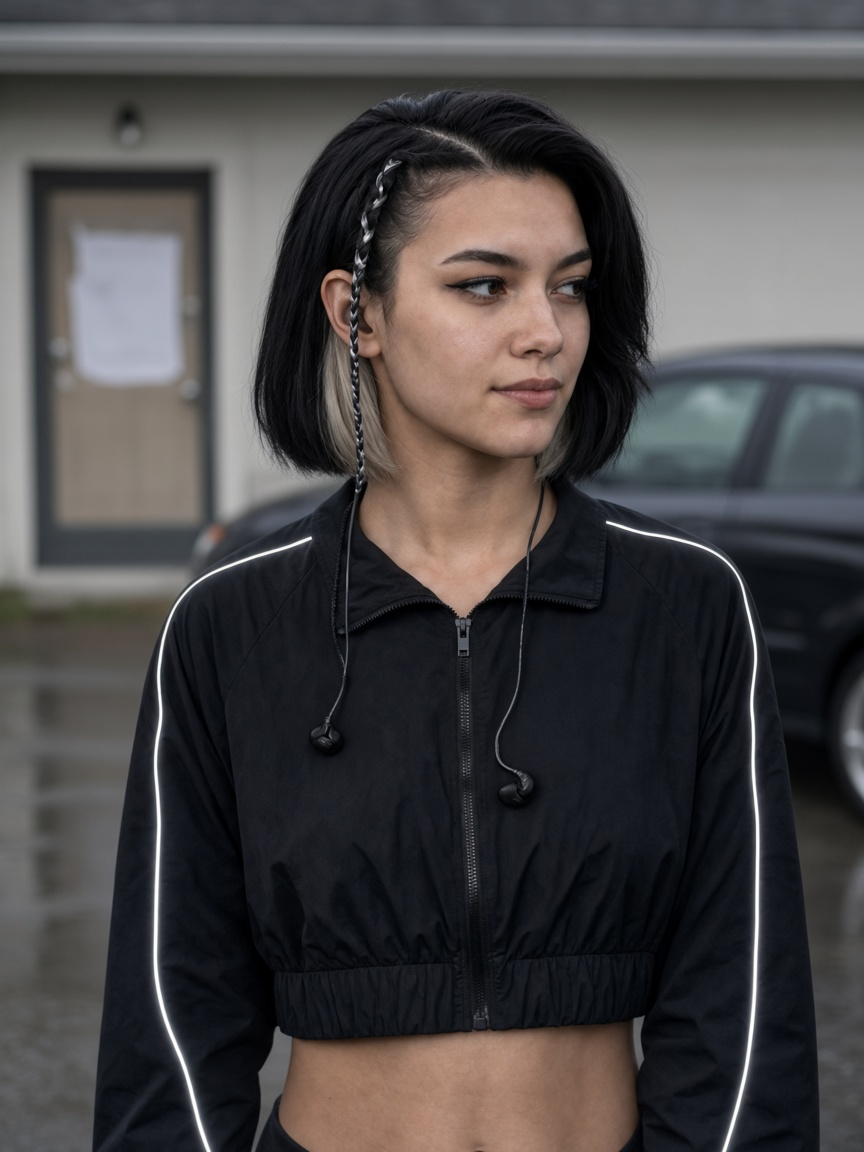
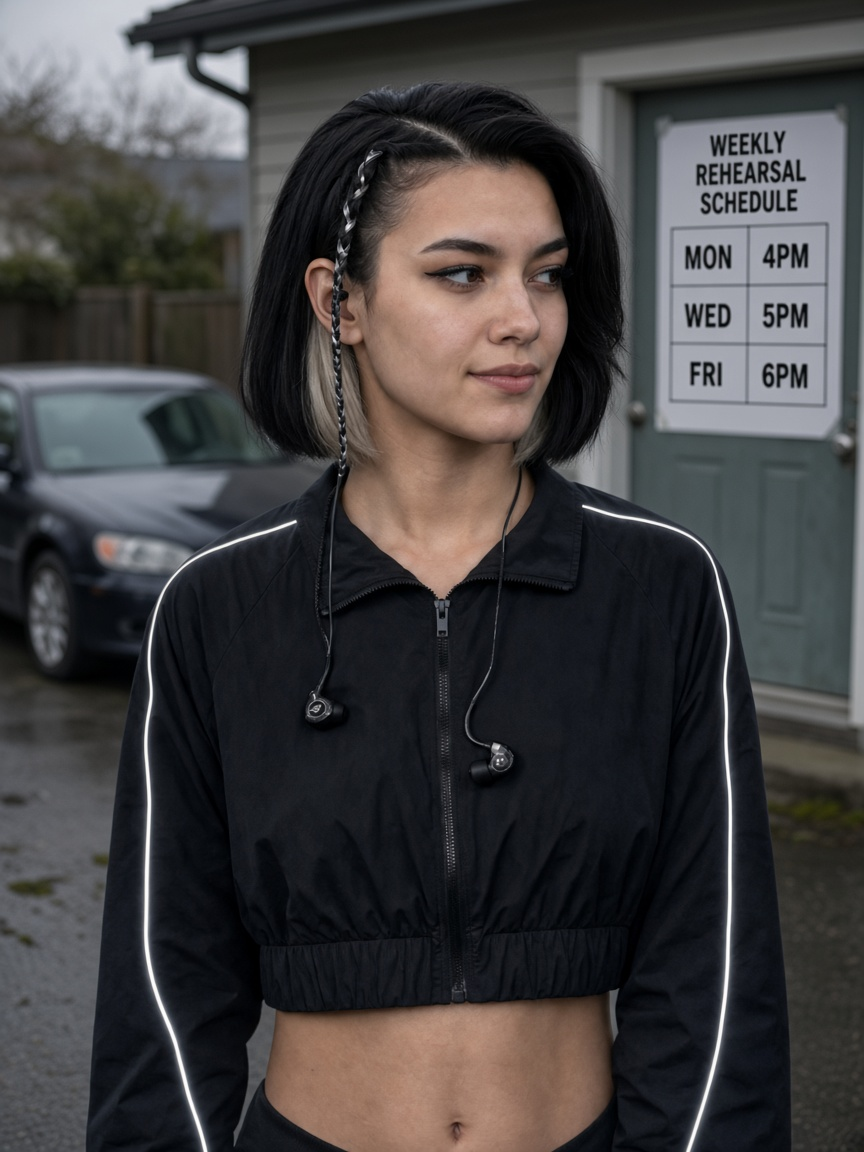
Seed IV-010 take 18 as the live still.
Claude muted-read PASS (a8a5ebe4) on PR #136 preferred take-18.
Promote take-18 onto cards/IV-010.png byte-identical. Take-13 FAIL
stays in the wave notes. Bump imageUrl to a69. No regen. No IV-018.

diff --git a/src/game.js b/src/game.js
@@ -219,7 +219,7 @@ function sceneFragment(scene) {
 }
 
 function imageUrl(cardId) {
-  return "/api/run/image/" + encodeURIComponent(cardId) + "?v=a68";
+  return "/api/run/image/" + encodeURIComponent(cardId) + "?v=a69";
 }
 
 function cargoUsed(state) {

diff --git a/cards/takes/WAVE_IV-010.md b/cards/takes/WAVE_IV-010.md
@@ -1,18 +1,18 @@
 # NEXT STILLS — IV-010 portrait regen (takes 12–19)
 
-Not seeded. No live Postgres. No `imageUrl` bump. No plate overwrite. No IV-018. No IV-029. No Act V.
+**Seeded.** Claude muted-read PASS on PR #136 take-18 (primary chat a8a5ebe4). Live plate is byte-identical to `cards/takes/IV-010-take-18.png`. Take-13 FAIL (garbled/placeholder schedule + crop) — not seeded. `imageUrl` bumped `?v=a69`. No plate overwrite. No IV-018. No IV-029. No Act V.
 
 Card JSON is sole brief authority. Plates attached: `refs/ref_yuna.png` (Y2 take 1) + `refs/ref_yuna_sheet.png` (Y1 take 6). PR #134 re-verify **PLATES OK keep** — plates not regenerated.
 
[2 lines of base64/hex data omitted]
 
 Every take send: **card_id** + **lesson** + **shot token**.
 
-| Card | Lesson | Shot | Closest | Runner-up |
+| Card | Lesson | Shot | Seeded (Claude PASS) | Runner-up (FAIL) |
 |---|---|---|---|---|
 | **IV-010** | both in-ears are out; the taped schedule is on the door behind her | `POV_PORTRAIT` | `cards/takes/IV-010-take-18.png` | `cards/takes/IV-010-take-13.png` |
 
-Live still stays take-7 until Claude muted-read PASSes a new take. Do not promote without Claude.
+`variation.winner` / art-review pick lock take-18. Take-7 superseded.
 
 ---
 
@@ -45,21 +45,21 @@ This is the check that failed 11 / 9.
 | Cropped black windbreaker + reflective piping | yes | yes |
 | Dead in-ears | plates: right in / left dangling · take-7: both out | split — see takes |
 
-Costume checklist is not a face lock. Face lock held this wave. IEM state and door lettering are the residuals.
+Costume checklist is not a face lock. Face lock held this wave.
 
 ---
 
-## Closest — take 18
+## Seeded — take 18 (Claude PASS)
 
-KEEP vs the brief + plates + take-7: (1) **same face** as Y2 / take-7. (2) **Both ears empty.** Both buds dangling on the cord. (3) House door with a taped schedule sheet behind her. (4) Dark hatchback flank left of frame, no chevron. (5) Braid at her right temple, platinum under-layer, cropped piped windbreaker. (6) Faintly amused, chin level.
+KEEP vs the brief + plates + take-7: (1) **same face** as Y2 / take-7. (2) **Both ears empty.** Both buds dangling on the cord. (3) House door with a taped schedule sheet behind her — Claude: door schedule resolved/coherent. (4) Dark hatchback flank left of frame, no chevron. (5) Braid at her right temple, platinum under-layer, cropped piped windbreaker. (6) Colder flatter world grade. Identity matches Yuna plates.
 
-Residual: the door sheet is a printed grid with garbled title-card letters (`WEEKLYLY REHEARSAL SCHEDDELLE` / `MONNESTION`). Same text/UI class that discarded PR #130 take 10. Readable as a taped schedule at 390px; letters are invented. Expression stiller than “not still.”
+Claude muted-read preferred take-18. Live still: `cards/IV-010.png` (`cmp` identical to take 18). `variation.winner` = `take-18`.
 
-## Runner-up — take 13
+## Runner-up — take 13 (Claude FAIL)
 
 Same face lock. **Both ears empty.** Both buds on the cord. Hatchback flank clearer than 18. Taped schedule on the door. Braid side / platinum / jacket hold.
 
-Residual: same lettered garbled poster. Door reads more garage-blank than a house door. Slightly broader smile than “faintly amused.”
+Claude: garbled/placeholder schedule + crop. Do not seed.
 
 ## Same-family
 
@@ -77,14 +77,13 @@ Y2 lock bleed (right IEM in the ear) — same miss as PR #130 take 8 / 10:
 
 ---
 
-## Wave residuals (for Claude)
+## Live plate (this seed)
 
-1. **Text / UI on the door** — all eight printed a readable schedule and invented letters. Take-7’s blank taped sheet is cleaner against the negative block; this wave is more obviously a schedule. Claude should decide whether garbled title-card type fails the muted read.
-2. **Y2 one-in bleed** — 12 / 15 / 17 / 19. Do not promote.
-3. **Hatchback missing** — 12 / 14.
-4. Live `cards/IV-010.png` = take-7 **STANDS**. Do not seed. Do not bump `imageUrl`.
+| File | Bytes | MD5 | SHA256 | Size |
+|---|---|---|---|---|
[1 lines of base64/hex data omitted]
 
----
+Take-7 (`64cd6a28…`) superseded. Take-13 stays in the takes pool — FAIL, do not promote.
 
 ## Out of scope (untouched)
 
@@ -92,4 +91,4 @@ Y2 lock bleed (right IEM in the ear) — same miss as PR #130 take 8 / 10:
 - IV-018 (seeded take 1)
 - IV-029 (take-16 PASS)
 - Act V
-- Live Postgres
+- No art regen

diff --git a/refs/LOCKS.md b/refs/LOCKS.md
@@ -12,7 +12,8 @@ Never mix panels across takes. Winners only.
 | Deac turnaround | D1 take 2 | `ref_deac_sheet.png` | Glasses on cord in all three panels; vest taped at the shoulder. |
 | Deac portrait | D2 take 2 | `ref_deac.png` | Clipboard is the PSDP log; glasses on chest; amber vest only saturated color. |
 | Yuna turnaround | Y1 take 6 | `ref_yuna_sheet.png` | First four takes put the braid on her left. Take 6: braid at her right temple, right IEM in, left dangling, platinum under-layer. |
-| Yuna portrait | Y2 take 1 | `ref_yuna.png` | Right IEM in, left dangling; retroreflective piping flares; matches take-6 sheet. |
+| Yuna portrait | Y2 take 1 | `ref_yuna.png` | Right IEM in, left dangling; retroreflective piping flares; matches take-6 sheet. Plate IEM state stays one-in. |
+| IV-010 card art | take 18 | `../cards/IV-010.png` | Claude muted-read **PASS** (a8a5ebe4) on PR #136 take 18. Both IEMs out; taped schedule on the door; identity matches Yuna plates. Exact promote of `cards/takes/IV-010-take-18.png`. Take-13 FAIL — garbled/placeholder schedule + crop. Old take-7 live still superseded. Do not bleed Y2 one-in onto this card. |
 | Ledger four-view | D3 take 2 | `ref_ledger_sheet.png` | Oversize convex mirrors are the silhouette; amber destination sign with no readable text. |
 | Encore four-view | Y3 take 3 | `ref_encore_sheet.png` | Wedge + four roof horns + chevrons; no mesh. All four takes stripped the glass — bible wants glass with no mesh. Silhouette still reads. Rerun before cockpit lock if glass matters. |
 | Convoy silhouette | G1 take 2 | `ref_convoy.png` | Round / box / wedge reads at a glance. Only take that kept Encore's PA horns; 1, 3, 4 turned them into spotlights. Overcast PNW, no salt-flat bleed. |

diff --git a/PLAYTHROUGH.md b/PLAYTHROUGH.md
@@ -28,7 +28,7 @@ Play order is `seq`. Gaps are unsown, not broken.
 | IV-007 | Transit Only | rule | take 30 · #119 |
 | IV-008 | The Bike in the Gap | scene | take 1 · #36 |
 | IV-009 | When Loud Is Right | convoy | take 11 · #129 |
-| IV-010 | Eleven Months | dossier | early PASS · #25 |
+| IV-010 | Eleven Months | dossier | take 18 · #136 |
 | IV-011 | Backing Into People | scene | take 98 · #58 |
 | IV-012 | The Same Crosswalk | ledger | take 32 · #76 |
 | IV-013 | Door Before You Step | scene | take 4 · #30 |
